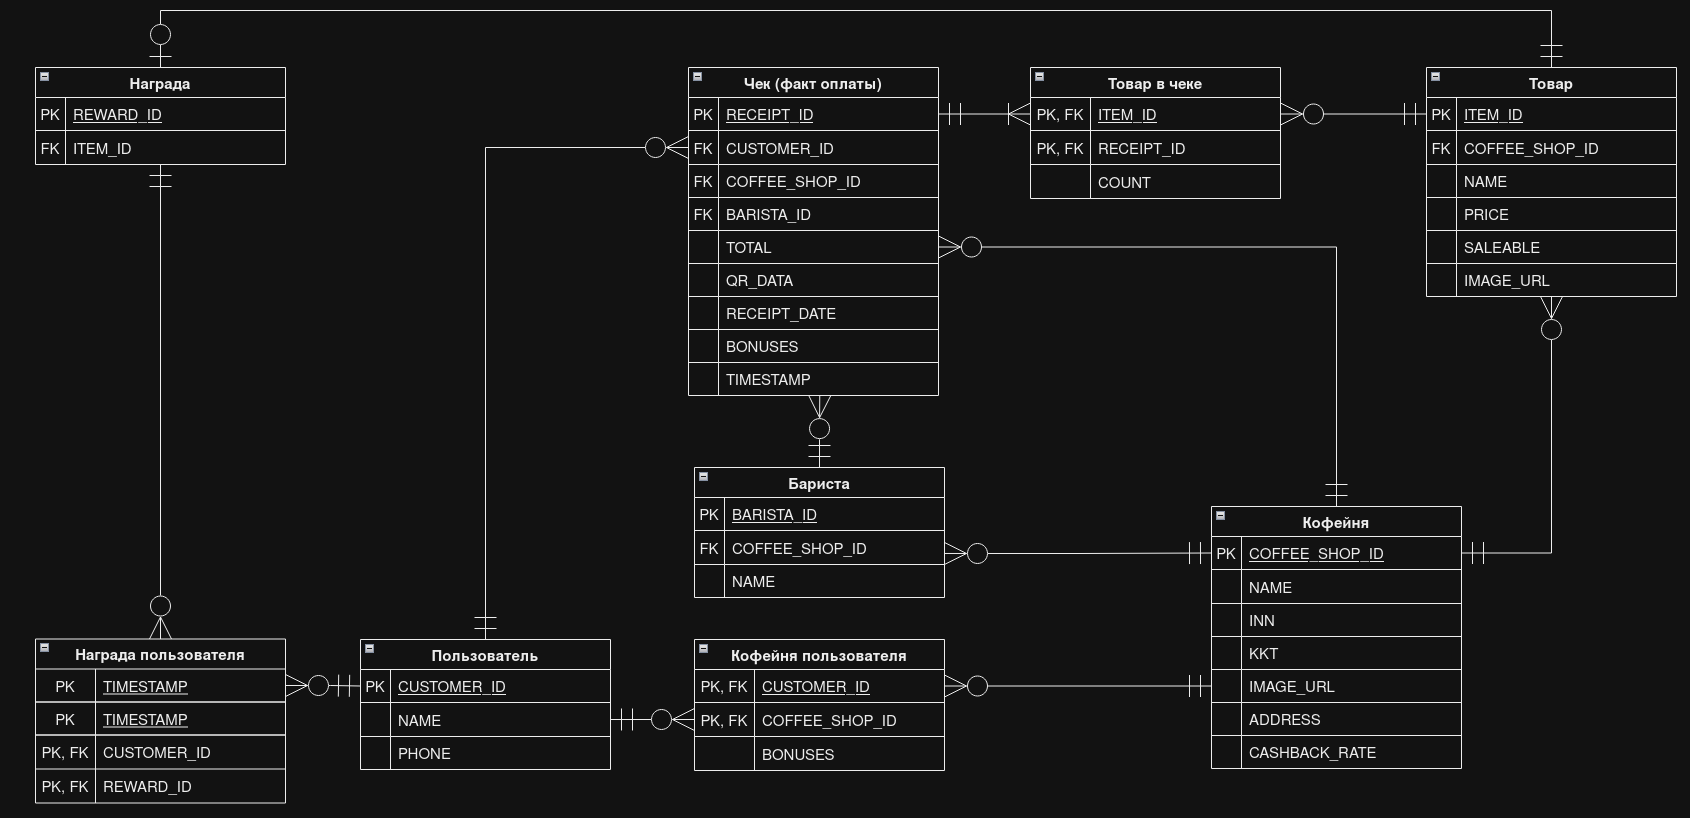
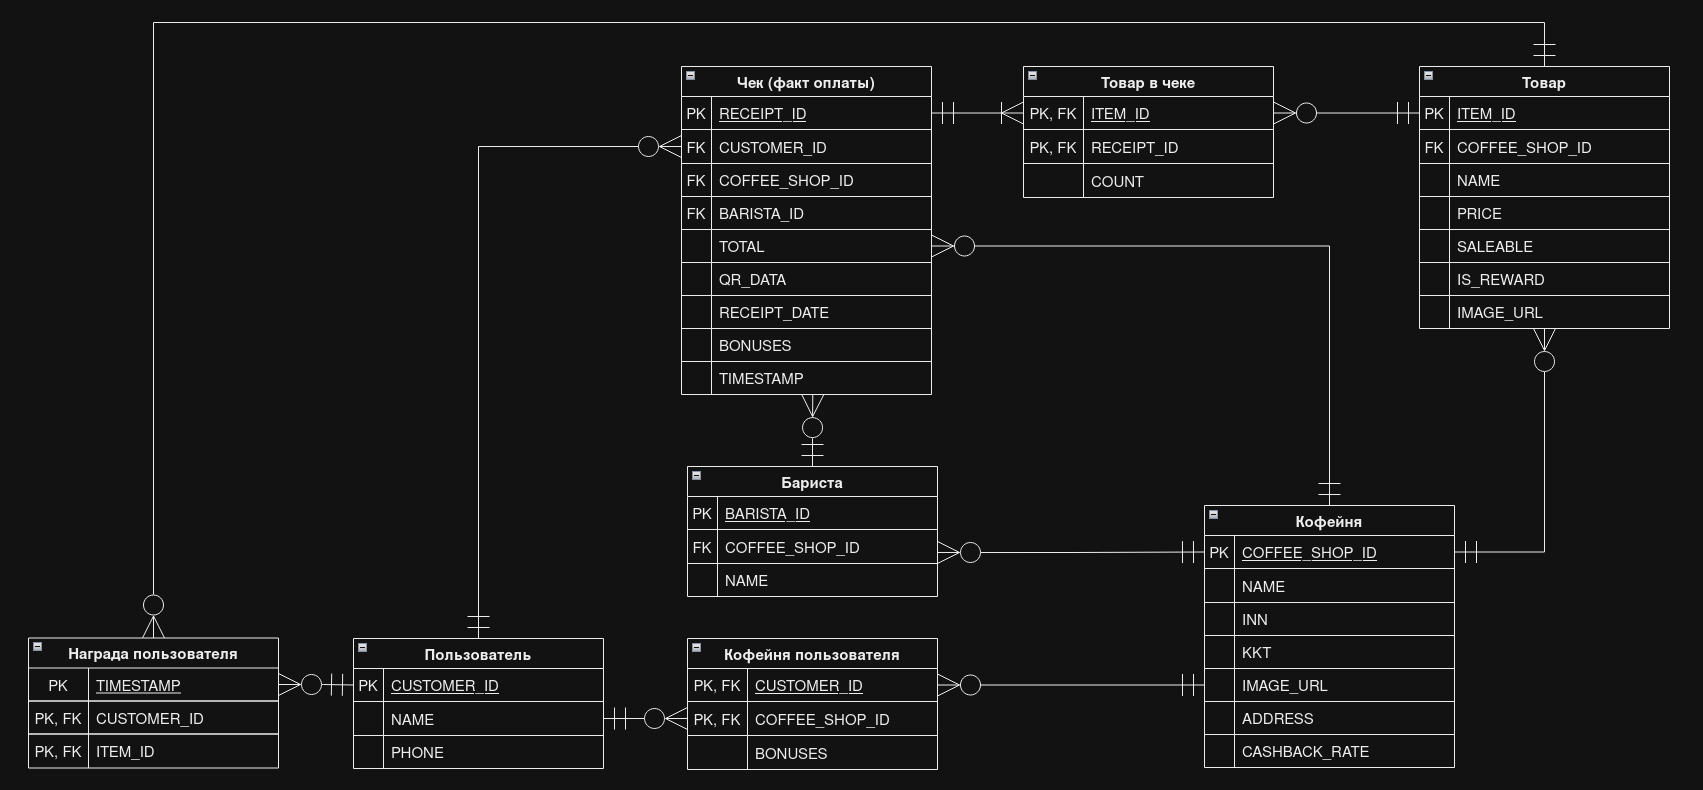
fix(draw.io): delete reward table

diff --git a/README.md b/README.md
@@ -113,7 +113,7 @@
 | PK/FK |   Название   |           Описание            | Тип данных | Ограничения                      |
 |-------|---------------|------------------------------|------------|----------------------------------|
 | FK    |  customer_id  | Идентификатор пользователя (внешний ключ) | INTEGER | REFERENCES customer(customer_id) |
-| FK    |  reward_id    | Идентификатор награды (внешний ключ) | INTEGER | REFERENCES item(item_id)     |
+| FK    |  item_id    | Идентификатор продукта (внешний ключ) | INTEGER | REFERENCES item(item_id)     |
 | PK      |  timestamp     | Временная метка получения награды | TIMESTAMP  | DEFAULT CURRENT_TIMESTAMP        |
 
 
